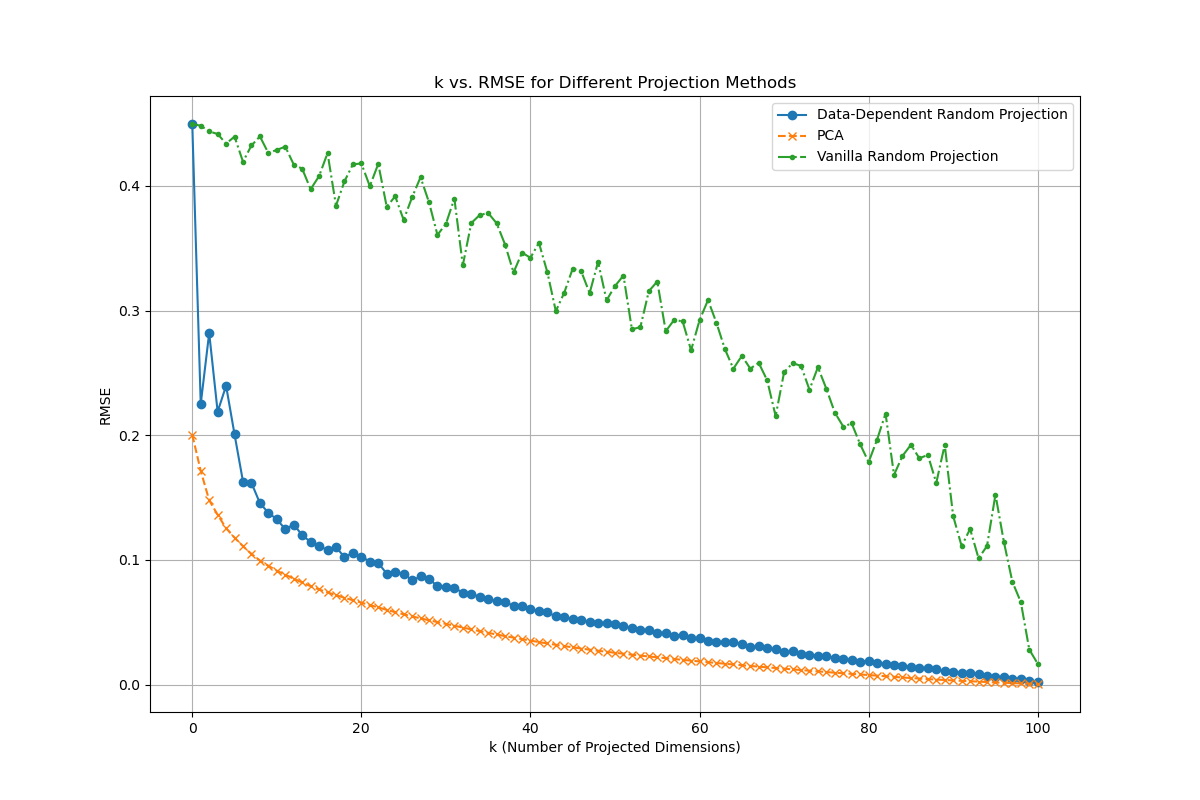
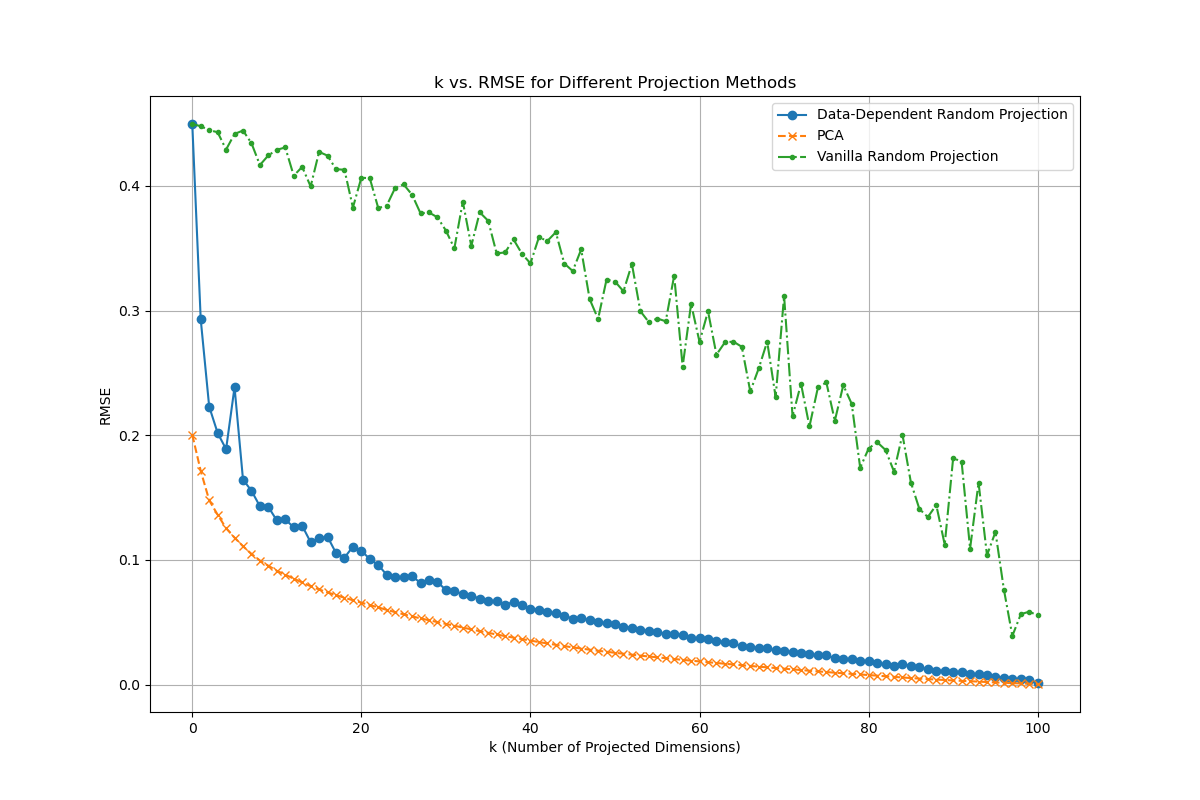
add datarp v1

diff --git a/dataRP_v1.py b/dataRP_v1.py
@@ -1,0 +1,212 @@
+# -*- coding: utf-8 -*-
+"""
+Created on Fri Sep 29 18:05:56 2023
+
+@author: lan0003
+"""
+
+import numpy as np
+import matplotlib.pyplot as plt
+import pandas as pd
+from sklearn.decomposition import PCA
+import time
+
+def generate_random_column(x):
+    """Generate a data-dependent random column based on the features of x."""
+    # Number of features in x
+    n = x.shape[0] # x in R^(nxp)
+
+    # Draw random coefficients from a standard Gaussian distribution
+    beta = np.random.randn(n) # beta in R^(nx1)
+    
+    beta = np.expand_dims(beta,1)
+
+    # Construct the data-dependent random column as a linear combination of the features of x
+    r_i = np.dot(x.T, beta) # want x.T in R^(pxn) => r_i = (pxn)x(nx1) = (px1)
+    
+    return r_i
+
+def gram_schmidt_columns(X):
+    """Orthogonalize the columns of matrix X using the Gram-Schmidt process."""
+    Q, R = np.linalg.qr(X)
+    return Q.T
+
+def data_dependent_random_projection(x, n_components):
+    """Perform data-dependent random projection on data x."""
+    # Number of features in x
+    p = x.shape[1]
+    
+    # Initialize the random matrix R
+    R = np.empty((p, n_components))
+    
+    # Generate each column R_i of R
+    for i in range(n_components):
+        #R[] = np.c_[R,generate_random_column(x)]
+        R[:, i] = generate_random_column(x)[:,0]
+
+    # Orthogonalize the columns of R
+    R = gram_schmidt_columns(R)
+            # Project the data
+    x_projected = np.dot(x, R)
+    
+    return R, x_projected
+
+def data_dependent_random_projection_v2(X, n_dimensions):
+    n, p = X.shape
+    
+    # Step 1: Formulating R
+    R = np.zeros((p, n_dimensions))
+    for i in range(n_dimensions):
+        beta = np.random.randn(n)
+        R[:, i] = X.T @ beta
+    
+    # Step 2: Making Rows of R Orthonormal
+    Q, _ = np.linalg.qr(R[:n_dimensions, :].T)
+    R[:n_dimensions, :] = Q.T
+    
+    # Step 3: Projecting X
+    X_tilde = X @ R
+    
+    return R, X_tilde
+
+def compute_rmse(original, reconstructed):
+    """Compute the RMSE between the original and reconstructed data."""
+    mse = np.mean((original - reconstructed) ** 2)
+    rmse = np.sqrt(mse)
+    return rmse
+
+# Implementing functions for PCA and vanilla random projection
+
+def pca_projection_reconstruction(X, k):
+    """Project and reconstruct data using PCA."""
+    pca = PCA(n_components=k)
+    X_projected = pca.fit_transform(X)
+    X_reconstructed = pca.inverse_transform(X_projected)
+    return X_reconstructed
+
+def vanilla_random_projection(X, k):
+    """Project and reconstruct data using vanilla random projection."""
+    m, n = X.shape
+    R = np.random.randn(n, k)
+
+    # Orthogonalize the columns of R
+    R = gram_schmidt_columns(R)
+
+    X_projected = np.dot(X, R)
+    X_reconstructed = np.dot(X_projected, R.T)
+    return X_reconstructed
+
+# Here's a corrected version of the normalized_data_dependent_random_projection function
+
+def normalized_data_dependent_random_projection(x, n_components):
+    """Perform data-dependent random projection on data x with normalization but without orthogonalization."""
+    
+    # Number of samples in x
+    m = x.shape[1]
+    
+    # Initialize the random matrix R
+    R = np.empty((m, n_components))
+    
+    # Generate each column R_i of R
+    for i in range(n_components):
+        #R[] = np.c_[R,generate_random_column(x)]
+        R[:, i] = generate_random_column(x)[:,0]
+
+  
+    # Normalize each column
+    for i in range(n_components):
+        norm = np.linalg.norm(R[i, :])
+        if norm != 0:  # Avoid division by zero
+            R[i, :] /= norm
+    
+    # Project the data
+    x_projected = np.dot(x,R)
+        
+    return R, x_projected
+
+
+def plot_rmse_vs_k(X, k_values):
+    """
+    Plot RMSE values against k for original data-dependent random projection, 
+    normalized data-dependent random projection, PCA, and vanilla random projection.
+    """
+    rmse_ddrp = []
+    rmse_normalized_ddrp = []
+    rmse_pca = []
+    rmse_vrp = []
+
+    for k in k_values:
+        # Original Data-dependent random projection
+        R_k, x_projected_ddrp = data_dependent_random_projection_v2(X, k)
+        x_reconstructed_ddrp = x_projected_ddrp @ R_k.T
+        print(R_k.T.shape)
+        print(x_projected_ddrp.shape)
+        print(x_reconstructed_ddrp.shape)
+        rmse_ddrp.append(compute_rmse(X, x_reconstructed_ddrp))
+        
+        # Normalized Data-dependent random projection
+        R_k_norm, x_projected_ddrp_norm = normalized_data_dependent_random_projection(X, k)
+        x_reconstructed_ddrp_norm = np.dot(x_projected_ddrp_norm,R_k_norm.T)
+        rmse_normalized_ddrp.append(compute_rmse(X, x_reconstructed_ddrp_norm))
+
+        # PCA
+        x_reconstructed_pca = pca_projection_reconstruction(X, k)
+        rmse_pca.append(compute_rmse(X, x_reconstructed_pca))
+
+        # Vanilla random projection
+        #x_reconstructed_vrp = vanilla_random_projection(X, k)
+        #rmse_vrp.append(compute_rmse(X, x_reconstructed_vrp))
+
+    # Plotting
+    plt.figure(figsize=(12, 8))
+    plt.plot(k_values, rmse_ddrp, marker='o', linestyle='-', label="Original Data-Dependent Random Projection")
+    plt.plot(k_values, rmse_normalized_ddrp, marker='s', linestyle=':', label="Normalized Data-Dependent Random Projection")
+    plt.plot(k_values, rmse_pca, marker='x', linestyle='--', label="PCA")
+    #plt.plot(k_values, rmse_vrp, marker='.', linestyle='-.', label="Vanilla Random Projection")
+    
+    plt.title('k vs. RMSE for Different Projection Methods')
+    plt.xlabel('k (Number of Projected Dimensions)')
+    plt.ylabel('RMSE')
+    plt.legend()
+    plt.grid(True)
+    plt.savefig("extended_v2_rmse_vs_k_comparison.png")
+    plt.show()
+
+
+if __name__ == '__main__':
+
+    # Load the CSV file into a DataFrame
+    data_df = pd.read_csv("data.csv")
+
+    # Convert the DataFrame to a NumPy array
+    X = data_df.values
+
+    # Specify the dimension (number of components) we want to project to
+    #n_components = 10
+
+    # Perform data-dependent random projection
+    #R, x_projected = data_dependent_random_projection(X, n_components)
+
+    # Print the shape of the projected data
+    #print("Shape of the projected data: ", x_projected.shape)
+
+    # Perform data-dependent reconstruction
+    #x_reconstructed = np.dot(R, x_projected)
+
+    # Print the shape of the reconstructed data
+    #print("Shape of the reconstructed data: ", x_reconstructed.shape)
+
+    # Compute the RMSE between the original and reconstructed data
+    #rmse = compute_rmse(X, x_reconstructed)
+    #print("RMSE between original and reconstructed data:", rmse)
+
+    # Define the range of k values
+    #k_values = list(range(20, 21))
+    
+    k_values = list(range(95, 101))
+
+    # Plot RMSE vs k for data-dependent random projection
+    plot_rmse_vs_k(X, k_values)
+
+
+
